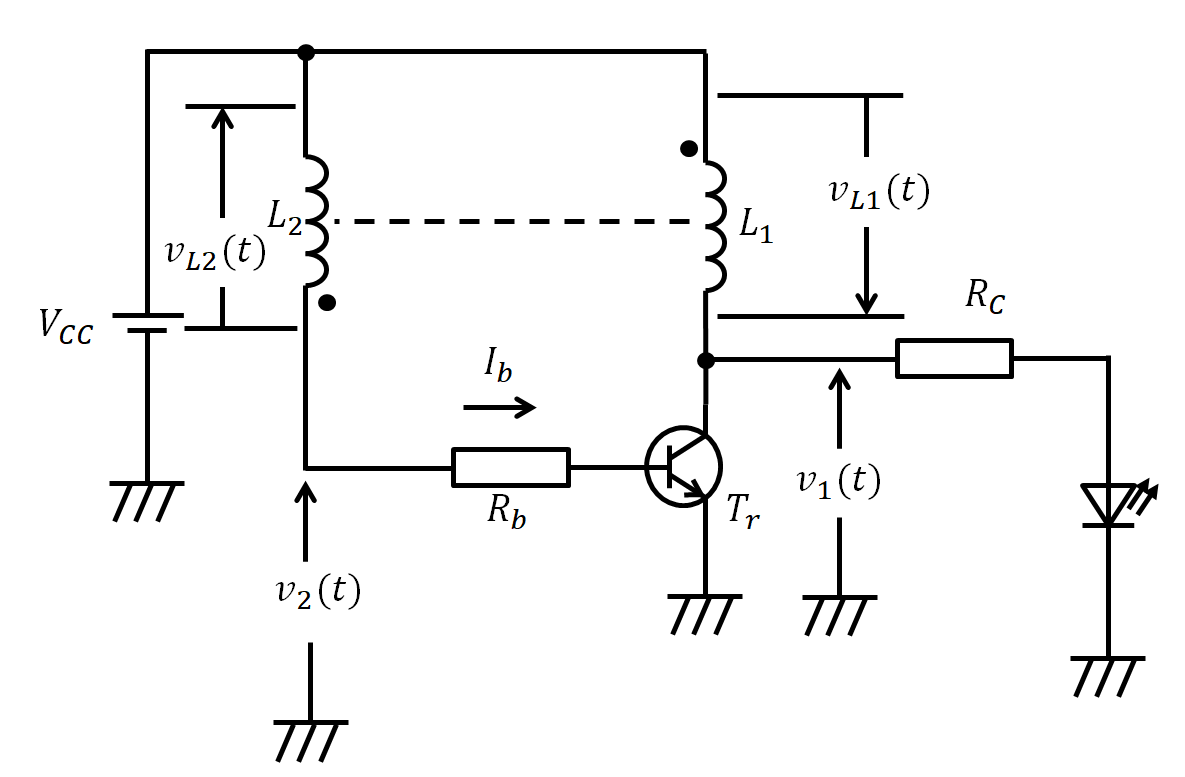
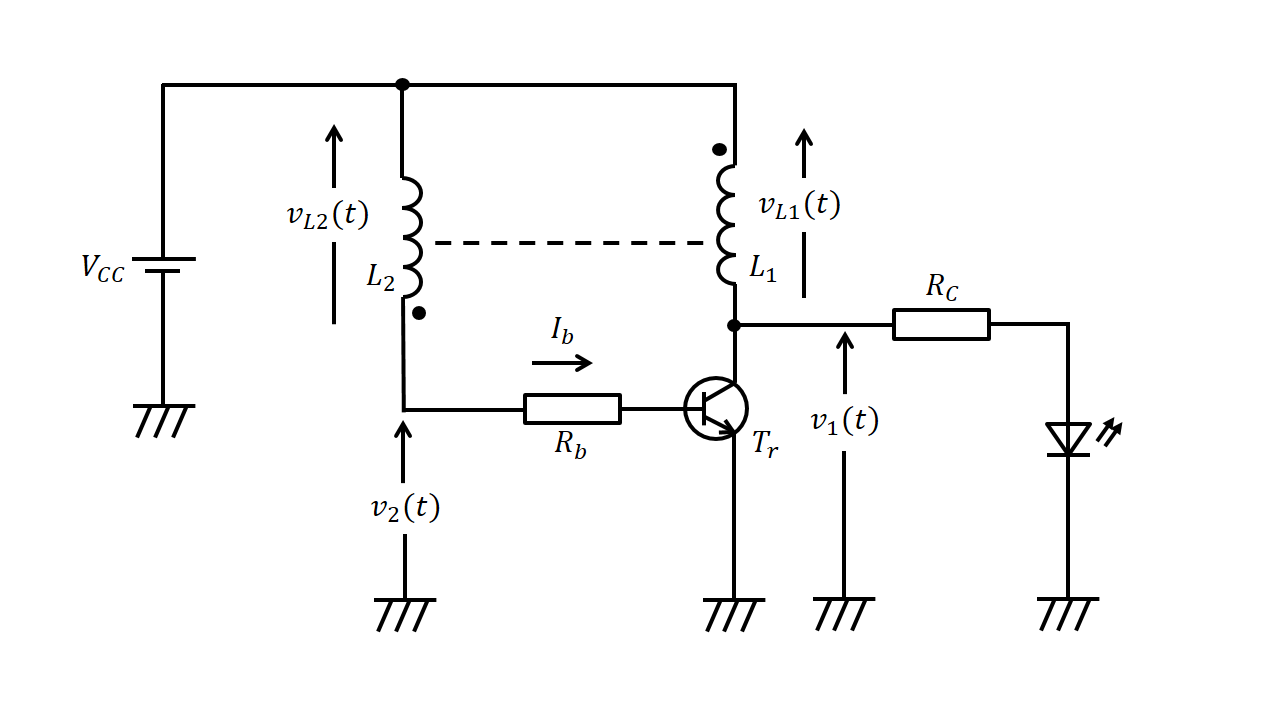
下書き更新

diff --git a/blocking-circuit.md b/blocking-circuit.md
@@ -1,33 +1,25 @@
 # ブロッキング回路の原理
+回路図のベクトルの向きはすべて上向きにしました。また、記号法を使いたいところですが、今回は正弦波交流回路ではないため、使うことができません。
 ## モデルの定義
-下図のように各点での電圧値および電流値を考える（ベクトルの向きはすべて上向きにしました）。
+下図のように各点での電圧値および電流値を考える。
+<img src="https://electronic-handicraft.work/wordpress/wp-content/uploads/2021/07/ブロッキング回路図1.png" width=80%>
 
-<img src="https://electronic-handicraft.work/wordpress/wp-content/uploads/2021/07/ブロッキング回路図1-1.png" width=60%>
-
-コイル\\(L\_1\\)と\\(L\_2\\)は巻数比１、結合係数１の理想トランスとする。すなわち、ここでのトランスの結合条件は
-\begin{cases}
-L\_1=L\_2=L\\\\
-n\_1:n\_2=1:1\\\\
-(結合係数) \\ K=1
-\end{cases}
-
-である。また、トランジスタ\\(T\_r\\)は下の3つの独立な定数のみで定義する。
-\begin{cases}
-h\_{FE} &: 直流電流増幅率\\\\
-V\_{CE(SAT)} &: {\small \textrm{C-E}} 間飽和電圧\\\\
-V\_{BE} &: {\small \textrm{B-E}}間順方向電圧
-\end{cases}
+自己インダクタンス\\(L\_1, L\_2\\)の2つのコイルは巻数比１、結合係数\\(k=1\\)の理想トランスであり、
+$$ L\_1=L\_2=L $$
+である。また、トランジスタ\\(T\_r\\)は直流電流増幅率\\(h\_{FE}\\)、C-E間飽和電圧\\(V\_{CE(SAT)}\\)、B-E間順方向電圧\\(V\_{BE}\\)の3つの独立な定数のみで定義する。
 
 上記の回路図から、次式が導かれる。
 \begin{cases}
-v\_1(t)&=&V\_{cc}+v\_{L1}(t) \tag{*} \\\\
-v\_2(t)&=&V\_{cc}-v\_{L2}(t)\\\\
-v\_{L2}(t)&=&v\_{L1}(t)
+V\_{cc}&=&v\_{L1}(t)+v\_1(t)\tag{*} \\\\
+V\_{cc}&=&v\_{L2}(t)+v\_2(t) \\\\
 \end{cases}
+また、図中の2つのコイルは差動的結合だから、
+$$ v\_{L1}(t)=-v\_{L2}(t) $$
 よって
 \begin{eqnarray}
-v\_2(t)&=&V\_{cc}-v\_{L1}(t) \notag \\\\
-&=&V\_{cc}-(v\_1(t)-V\_{cc}) \notag \\\\
+v\_2(t)&=&V\_{cc}-v\_{L2}(t) \notag \\\\
+&=&V\_{cc}+v\_{L1}(t) \notag \\\\
+&=&V\_{cc}+V\_{cc}-v\_1(t) \notag \\\\
 &=&2V\_{cc}-v\_1(t)\\\\
 \end{eqnarray}
 
